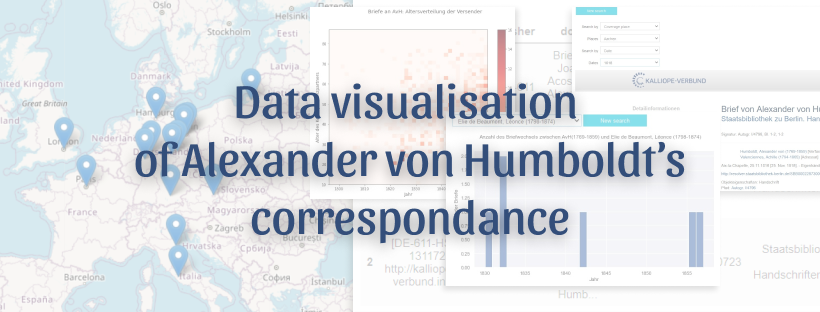
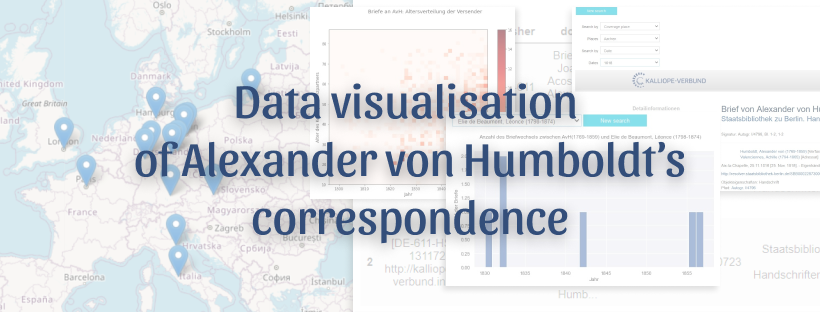
Spelling corrections on readme and its cover img

Changed region(s): [[0.3049, 0.6635, 0.7012, 0.7788]]

diff --git a/README.md b/README.md
@@ -8,23 +8,23 @@ The idea started with the analogous collection of Alexander von Humboldt's lette
 
 The original idea was initially to reconstruct at least part of this collection and to discover it with new possibilities. 
 
-## Structure of the repository
+## Repository structure
 ```
 corresp-humboldt-dataviz
     ├── data
-    │   ├── edh_findbuch.json
-    │   ├── records.json
+    │     ├── edh_findbuch.json
+    │     └── records.json
     ├── documentation/...
     ├── notebooks
-    │   ├── mapviz.ipynb
-    │   └── search.ipynb
+    │     ├── mapviz.ipynb
+    │     └── search.ipynb
     ├── routes
-    │   ├── mapviz.py
-    │   ├── prepare_data.py
-    │   ├── search_by.py
-    │   ├── search_dynamic.py
-    │   ├── widgets.py
-    │   └── women.py.ipynb
+    │     ├── mapviz.py
+    │     ├── prepare_data.py
+    │     ├── search_by.py
+    │     ├── search_dynamic.py
+    │     ├── widgets.py
+    │     └── women.py
     ├── .gitignore
     └── requirements.txt
 
@@ -45,13 +45,13 @@ Several libraries were used to visualise the data, among them the main ones are
 - ipyleaflet for map visualisations
 
 
-# Discover the Alexander von Humboldt's correspondance
+# Discover the Alexander von Humboldt's correspondence
 ## First launch
 Prerequisite: python3
 
 *You can install it via this [site](https://www.python.org/downloads/). As a reminder: most Linux systems already have Python installed.*
 
-1. Clone this git repository : `git clone https://github.com/axellelecroq/pantheonisees.git` et rentrer dedans
+1. Clone this git repository : `git clone https://github.com/axellelecroq/pantheonisees.git` and go inside
 2. Install a virtual environment : `virtualenv -p python3 env`
 3. Activate the virtual environment via `source env/bin/activate`
 4. Install `requirements.txt` : enter into the corresponding folder `corresp-humboldt-dataviz` and run the command `pip install -r requirements.txt`
